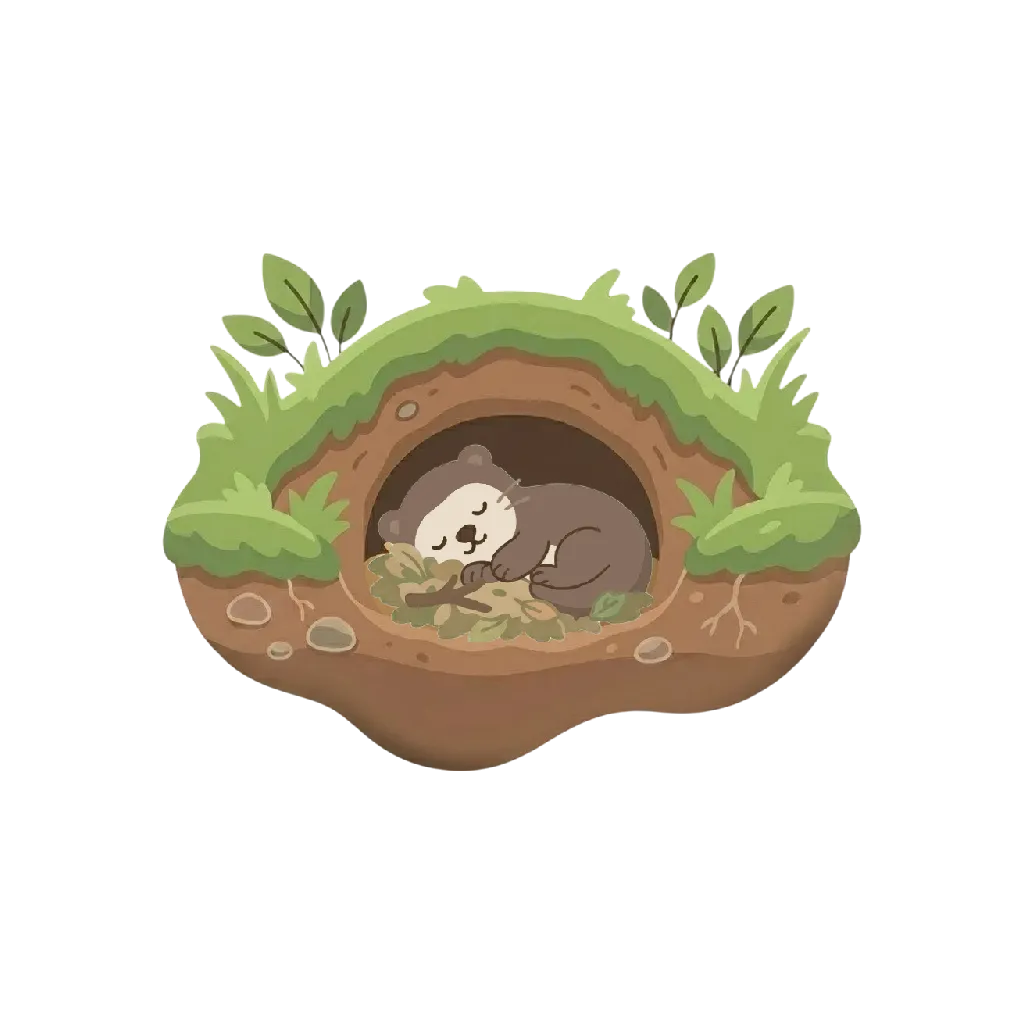
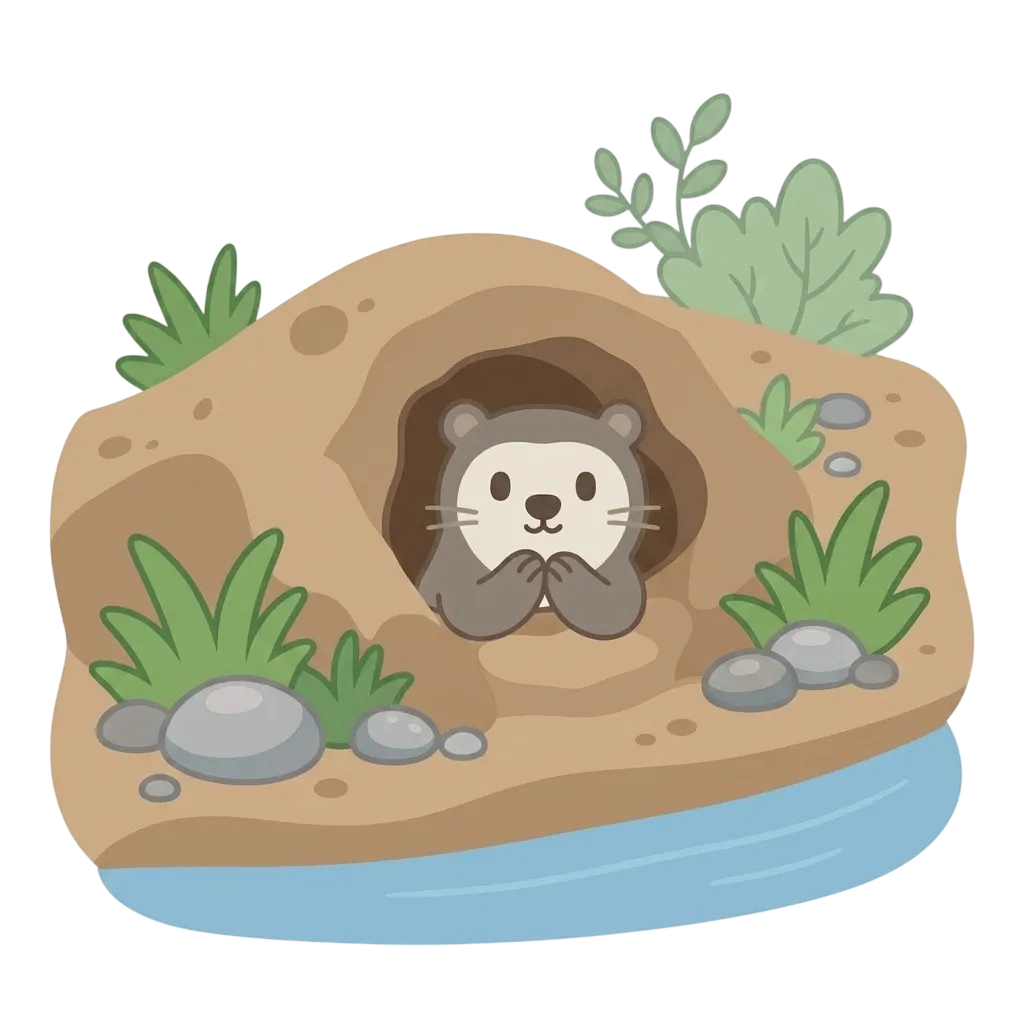
design: 수달 집 그림별 크기·위치 보정
그림마다 여백이 달라 같은 칸을 채우면 수달의 크기가 제각각으로 보였다.
집을 넘길 때 크기가 튀지 않도록 그림별로 배율과 위치를 맞췄다.

보정은 그림에만 걸고 프레임은 그대로 둬서, 집을 바꿔도 [이사하기] 위치가
흔들리지 않는다. translateY를 scale보다 앞에 둬 올리는 거리가 축소에
함께 줄지 않는다.

diff --git a/frontend/src/features/home/pages/MainPage.tsx b/frontend/src/features/home/pages/MainPage.tsx
@@ -94,7 +94,12 @@ interface OtterHabitat {
  * id는 선택을 저장하는 값이므로, 순서를 바꿔도 id는 그대로 둬야 한다.
  */
 const otterHabitats: readonly OtterHabitat[] = [
-  { id: "log", image: otterWithLog, alt: "통나무에 기대어 쉬고 있는 수달" },
+  {
+    id: "log",
+    image: otterWithLog,
+    alt: "통나무에 기대어 쉬고 있는 수달",
+    imageClass: "main-otter-log",
+  },
   {
     id: "on-log",
     image: otterWithLog2,
@@ -102,7 +107,12 @@ const otterHabitats: readonly OtterHabitat[] = [
     imageClass: "main-otter-on-log",
   },
   { id: "rock", image: otterInRock, alt: "바위 안에서 쉬고 있는 수달" },
-  { id: "cave", image: otterInCave, alt: "굴 안에서 쉬고 있는 수달" },
+  {
+    id: "cave",
+    image: otterInCave,
+    alt: "굴 안에서 쉬고 있는 수달",
+    imageClass: "main-otter-cave",
+  },
   {
     id: "riverside-cave",
     image: otterInCave2,

diff --git a/frontend/src/features/home/pages/MainPage.css b/frontend/src/features/home/pages/MainPage.css
@@ -1060,12 +1060,20 @@ a {
 /* 여백이 좁아 같은 칸을 채우면 다른 집보다 크게 보이는 그림들의 보정.
    프레임은 그대로 두고 그림만 줄여, [이사하기] 위치가 흔들리지 않게 한다.
    translateY를 scale보다 앞에 둬서 올리는 거리가 함께 줄지 않는다. */
+.main-otter-frame .main-otter-log {
+  transform: translateY(-3%) scale(0.95);
+}
+
 .main-otter-frame .main-otter-on-log {
+  transform: translateY(-6%) scale(0.8);
+}
+
+.main-otter-frame .main-otter-cave {
   transform: translateY(-6%) scale(0.7);
 }
 
 .main-otter-frame .main-otter-riverside {
-  transform: translateY(-6%) scale(0.7);
+  transform: translateY(-2%) scale(0.85);
 }
 
 /* [이사하기]도 히어로의 다른 버튼과 같은 흰 알약으로 맞추고, 화면 끝이 아니라
